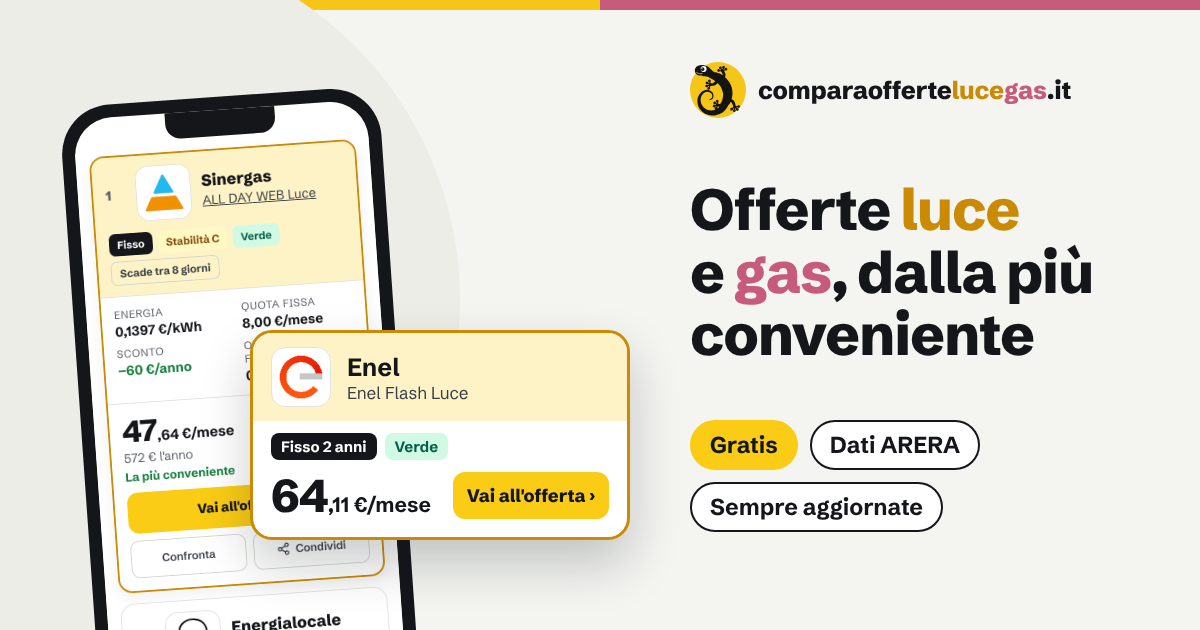
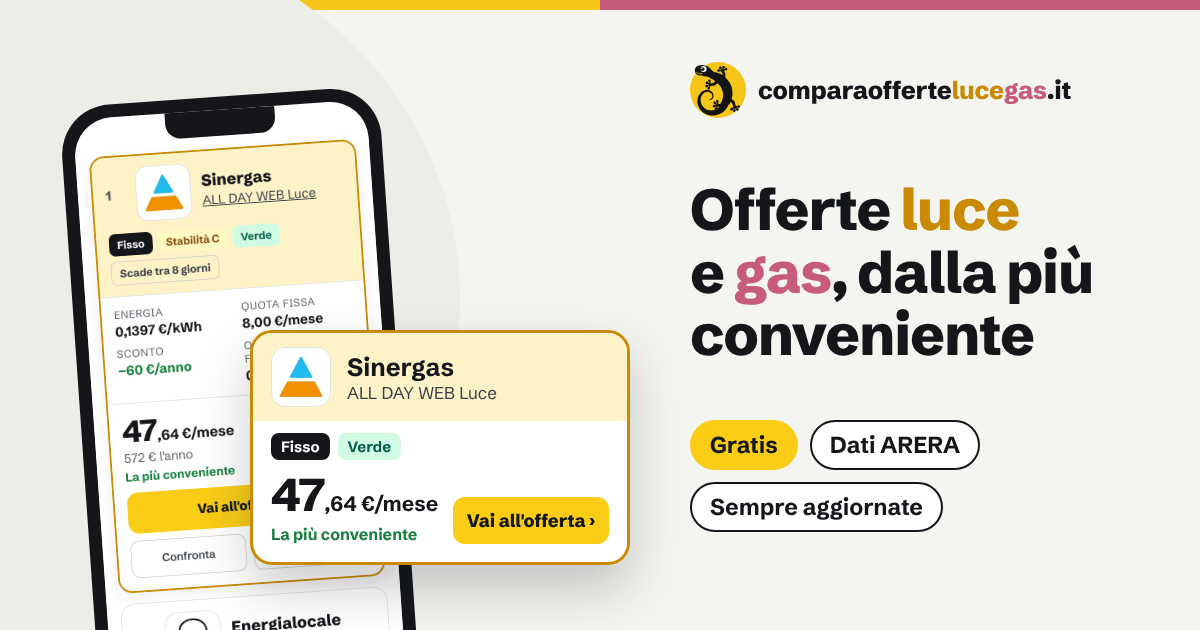
Anteprima link: stessa offerta nel telefono e in evidenza
Claude-Session: https://claude.ai/code/session_01NunicjvYiLk49HBhFRs5rr

Changed region(s): [[0.185, 0.6635, 0.5242, 0.9048], [0.2158, 0.5429, 0.4317, 0.6333]]

diff --git a/offerte-luce-senza-penale/index.html b/offerte-luce-senza-penale/index.html
@@ -10,7 +10,7 @@
 <link rel="canonical" href="https://comparaoffertelucegas.it/offerte-luce-senza-penale/">
 <meta property="og:title" content="Offerte luce senza penale di uscita: classifica di oggi">
 <meta property="og:description" content="1856 offerte luce senza penale di uscita di 356 fornitori, dagli open data ARERA del 24/11/2026, ordinate per spesa mensile stimata.">
-<meta property="og:image" content="https://comparaoffertelucegas.it/og.png?v=3">
+<meta property="og:image" content="https://comparaoffertelucegas.it/og.png?v=4">
 <meta property="og:image:width" content="1200">
 <meta property="og:image:height" content="630">
 <meta name="twitter:card" content="summary_large_image">

diff --git a/offerte-gas-senza-penale/index.html b/offerte-gas-senza-penale/index.html
@@ -10,7 +10,7 @@
 <link rel="canonical" href="https://comparaoffertelucegas.it/offerte-gas-senza-penale/">
 <meta property="og:title" content="Offerte gas senza penale di uscita: classifica di oggi">
 <meta property="og:description" content="1325 offerte gas senza penale di uscita di 298 fornitori, dagli open data ARERA del 24/11/2026, ordinate per spesa mensile stimata.">
-<meta property="og:image" content="https://comparaoffertelucegas.it/og.png?v=3">
+<meta property="og:image" content="https://comparaoffertelucegas.it/og.png?v=4">
 <meta property="og:image:width" content="1200">
 <meta property="og:image:height" content="630">
 <meta name="twitter:card" content="summary_large_image">

diff --git a/luce-e-gas/index.html b/luce-e-gas/index.html
@@ -10,7 +10,7 @@
 <link rel="canonical" href="https://comparaoffertelucegas.it/luce-e-gas/">
 <meta property="og:title" content="Offerte luce e gas insieme: pacchetti a confronto">
 <meta property="og:description" content="Le offerte luce e gas in un unico contratto dagli open data ARERA, con la spesa sui tuoi consumi e il confronto con le migliori offerte separate.">
-<meta property="og:image" content="https://comparaoffertelucegas.it/og.png?v=3">
+<meta property="og:image" content="https://comparaoffertelucegas.it/og.png?v=4">
 <meta property="og:image:width" content="1200">
 <meta property="og:image:height" content="630">
 <meta name="twitter:card" content="summary_large_image">

diff --git a/offerte-luce-energia-verde/index.html b/offerte-luce-energia-verde/index.html
@@ -10,7 +10,7 @@
 <link rel="canonical" href="https://comparaoffertelucegas.it/offerte-luce-energia-verde/">
 <meta property="og:title" content="Offerte luce con energia verde: classifica di oggi">
 <meta property="og:description" content="266 offerte luce con energia verde di 41 fornitori, dagli open data ARERA del 24/11/2026, ordinate per spesa mensile stimata.">
-<meta property="og:image" content="https://comparaoffertelucegas.it/og.png?v=3">
+<meta property="og:image" content="https://comparaoffertelucegas.it/og.png?v=4">
 <meta property="og:image:width" content="1200">
 <meta property="og:image:height" content="630">
 <meta name="twitter:card" content="summary_large_image">

diff --git a/offerte-luce-variabili/index.html b/offerte-luce-variabili/index.html
@@ -10,7 +10,7 @@
 <link rel="canonical" href="https://comparaoffertelucegas.it/offerte-luce-variabili/">
 <meta property="og:title" content="Offerte luce a prezzo variabile: classifica di oggi">
 <meta property="og:description" content="1434 offerte luce a prezzo variabile di 348 fornitori, dagli open data ARERA del 24/11/2026, ordinate per spesa mensile stimata.">
-<meta property="og:image" content="https://comparaoffertelucegas.it/og.png?v=3">
+<meta property="og:image" content="https://comparaoffertelucegas.it/og.png?v=4">
 <meta property="og:image:width" content="1200">
 <meta property="og:image:height" content="630">
 <meta name="twitter:card" content="summary_large_image">

diff --git a/offerte-gas-variabili/index.html b/offerte-gas-variabili/index.html
@@ -10,7 +10,7 @@
 <link rel="canonical" href="https://comparaoffertelucegas.it/offerte-gas-variabili/">
 <meta property="og:title" content="Offerte gas a prezzo variabile: classifica di oggi">
 <meta property="og:description" content="1021 offerte gas a prezzo variabile di 297 fornitori, dagli open data ARERA del 24/11/2026, ordinate per spesa mensile stimata.">
-<meta property="og:image" content="https://comparaoffertelucegas.it/og.png?v=3">
+<meta property="og:image" content="https://comparaoffertelucegas.it/og.png?v=4">
 <meta property="og:image:width" content="1200">
 <meta property="og:image:height" content="630">
 <meta name="twitter:card" content="summary_large_image">

diff --git a/internet/index.html b/internet/index.html
@@ -10,7 +10,7 @@
 <link rel="canonical" href="https://comparaoffertelucegas.it/internet/">
 <meta property="og:title" content="Offerte fibra e internet casa a confronto">
 <meta property="og:description" content="Le offerte fibra per la casa dei principali operatori, ordinate per canone mensile, e i pacchetti energia più internet dei fornitori di luce e gas.">
-<meta property="og:image" content="https://comparaoffertelucegas.it/og.png?v=3">
+<meta property="og:image" content="https://comparaoffertelucegas.it/og.png?v=4">
 <meta property="og:image:width" content="1200">
 <meta property="og:image:height" content="630">
 <meta name="twitter:card" content="summary_large_image">

diff --git a/prezzo-energia-oggi/index.html b/prezzo-energia-oggi/index.html
@@ -10,7 +10,7 @@
 <link rel="canonical" href="https://comparaoffertelucegas.it/prezzo-energia-oggi/">
 <meta property="og:title" content="PUN oggi e domani: prezzo dell&#x27;energia elettrica">
 <meta property="og:description" content="Prezzo dell'energia elettrica di oggi e domani sul mercato del giorno prima, ora per ora, con l'andamento degli ultimi mesi.">
-<meta property="og:image" content="https://comparaoffertelucegas.it/og.png?v=3">
+<meta property="og:image" content="https://comparaoffertelucegas.it/og.png?v=4">
 <meta property="og:image:width" content="1200">
 <meta property="og:image:height" content="630">
 <meta name="twitter:card" content="summary_large_image">

diff --git a/offerte-luce-prezzo-fisso/index.html b/offerte-luce-prezzo-fisso/index.html
@@ -10,7 +10,7 @@
 <link rel="canonical" href="https://comparaoffertelucegas.it/offerte-luce-prezzo-fisso/">
 <meta property="og:title" content="Offerte luce a prezzo fisso: classifica di oggi">
 <meta property="og:description" content="537 offerte luce a prezzo fisso di 233 fornitori, dagli open data ARERA del 24/11/2026, ordinate per spesa mensile stimata.">
-<meta property="og:image" content="https://comparaoffertelucegas.it/og.png?v=3">
+<meta property="og:image" content="https://comparaoffertelucegas.it/og.png?v=4">
 <meta property="og:image:width" content="1200">
 <meta property="og:image:height" content="630">
 <meta name="twitter:card" content="summary_large_image">

diff --git a/offerte-gas-prezzo-fisso/index.html b/offerte-gas-prezzo-fisso/index.html
@@ -10,7 +10,7 @@
 <link rel="canonical" href="https://comparaoffertelucegas.it/offerte-gas-prezzo-fisso/">
 <meta property="og:title" content="Offerte gas a prezzo fisso: classifica di oggi">
 <meta property="og:description" content="336 offerte gas a prezzo fisso di 179 fornitori, dagli open data ARERA del 24/11/2026, ordinate per spesa mensile stimata.">
-<meta property="og:image" content="https://comparaoffertelucegas.it/og.png?v=3">
+<meta property="og:image" content="https://comparaoffertelucegas.it/og.png?v=4">
 <meta property="og:image:width" content="1200">
 <meta property="og:image:height" content="630">
 <meta name="twitter:card" content="summary_large_image">

diff --git a/psv/index.html b/psv/index.html
@@ -10,7 +10,7 @@
 <link rel="canonical" href="https://comparaoffertelucegas.it/psv/">
 <meta property="og:title" content="Prezzo gas PSV: valore del mese e andamento">
 <meta property="og:description" content="Valore mensile del PSV, il prezzo all'ingrosso del gas in Italia usato da ARERA per le offerte variabili, con l'andamento degli ultimi anni.">
-<meta property="og:image" content="https://comparaoffertelucegas.it/og.png?v=3">
+<meta property="og:image" content="https://comparaoffertelucegas.it/og.png?v=4">
 <meta property="og:image:width" content="1200">
 <meta property="og:image:height" content="630">
 <meta name="twitter:card" content="summary_large_image">

diff --git a/offerte-luce-placet/index.html b/offerte-luce-placet/index.html
@@ -10,7 +10,7 @@
 <link rel="canonical" href="https://comparaoffertelucegas.it/offerte-luce-placet/">
 <meta property="og:title" content="Offerte luce PLACET: classifica di oggi">
 <meta property="og:description" content="431 offerte luce PLACET di 235 fornitori, dagli open data ARERA del 24/11/2026, ordinate per spesa mensile stimata.">
-<meta property="og:image" content="https://comparaoffertelucegas.it/og.png?v=3">
+<meta property="og:image" content="https://comparaoffertelucegas.it/og.png?v=4">
 <meta property="og:image:width" content="1200">
 <meta property="og:image:height" content="630">
 <meta name="twitter:card" content="summary_large_image">
